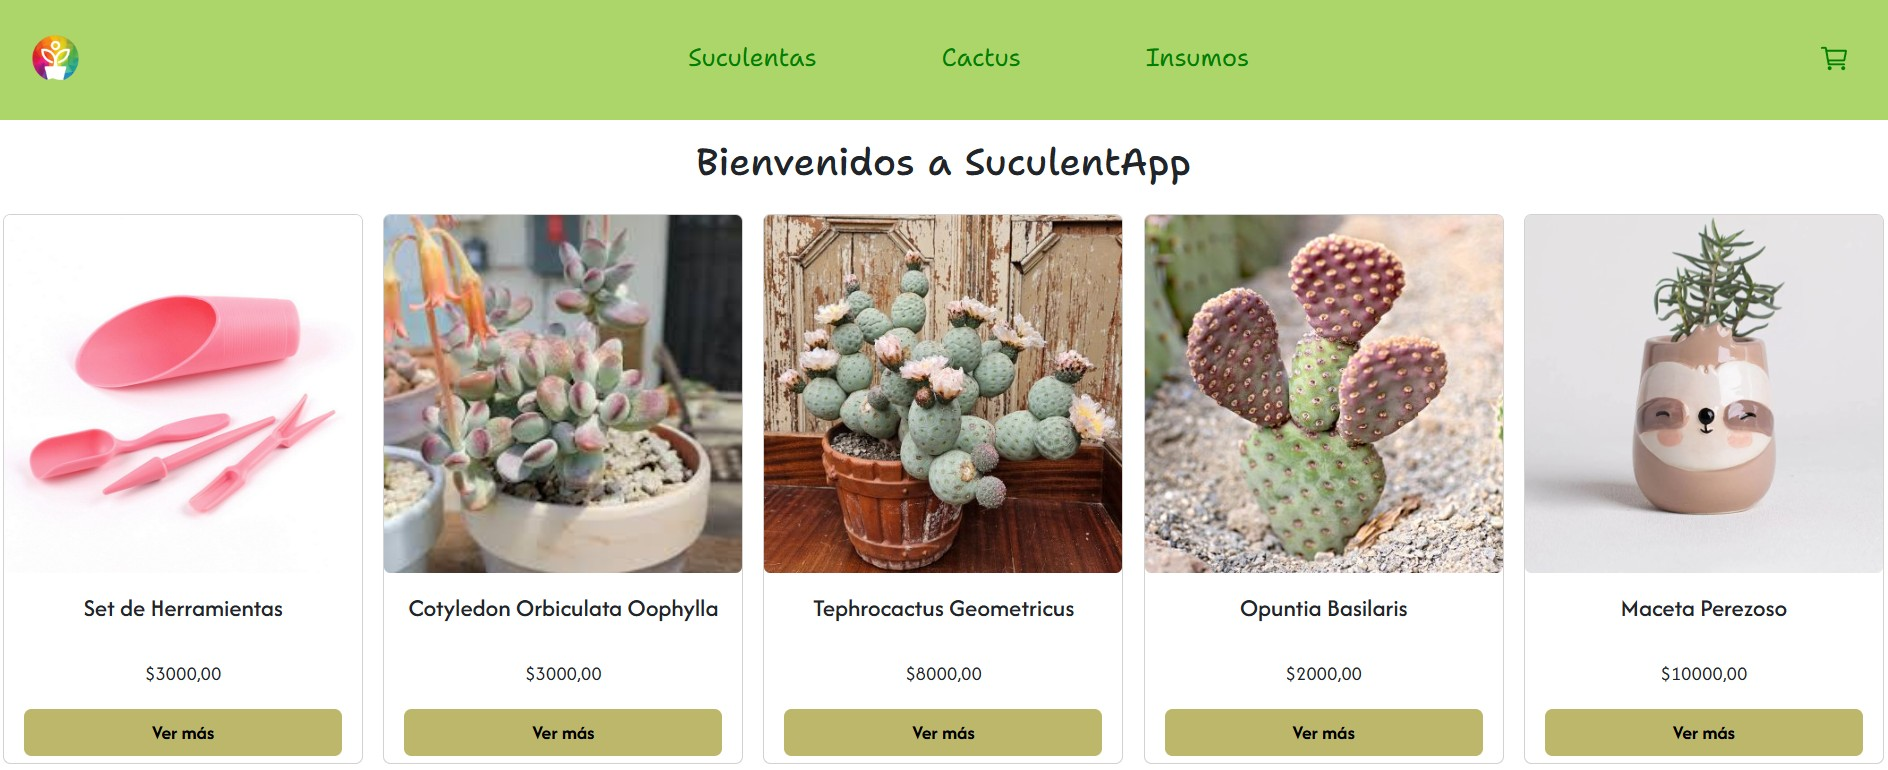
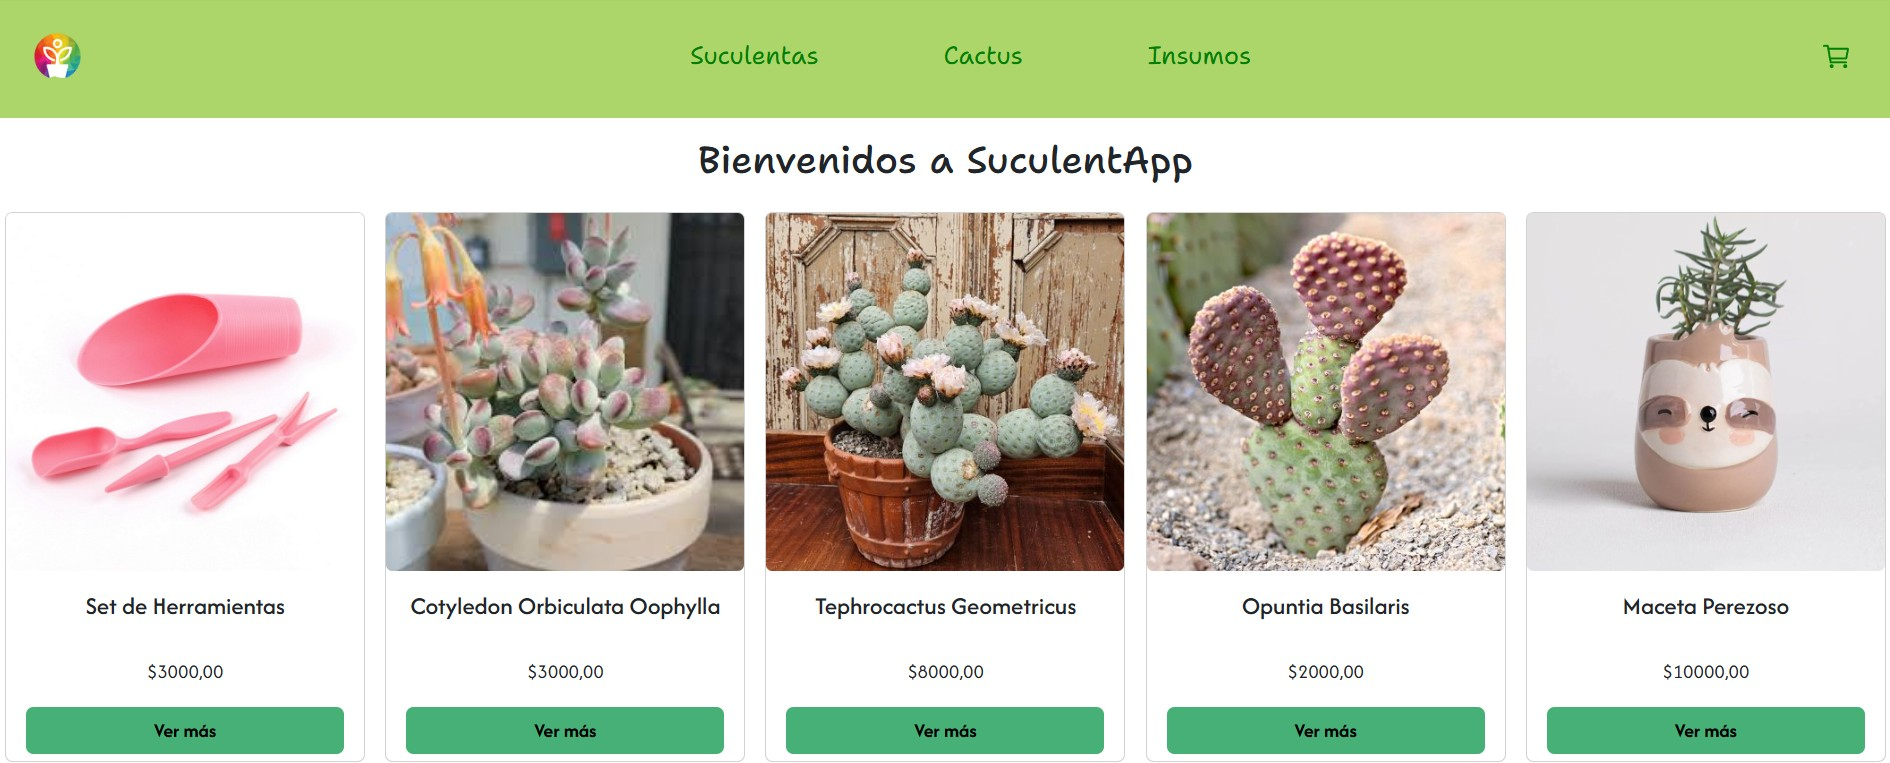
incorporacion de alerta al intentar vaciar el carrito y modificacion de la paleta de colores

diff --git a/src/components/CartView.jsx b/src/components/CartView.jsx
@@ -2,10 +2,44 @@ import '../styles/CartView.css'
 import React, { useContext } from 'react'
 import { CartContext } from '../context/CartContext'
 import { Link } from 'react-router-dom'
-import CartItem from './CartItem';
+import CartItem from './CartItem'
+import Swal from 'sweetalert2'
 
 const CartView = () => {
     const {cart, removeItem, clear, cartTotal}= useContext(CartContext)
+    const clearCart= () => {
+      const swalWithBootstrapButtons = Swal.mixin({
+        customClass: {
+          confirmButton: "btn btn-success",
+          cancelButton: "btn btn-danger"
+        },
+        buttonsStyling: false
+      });
+      swalWithBootstrapButtons.fire({
+        title: "¿Estas seguro?",
+        showCancelButton: true,
+        confirmButtonText: "Si",
+        cancelButtonText: "No",
+        reverseButtons: true,
+        backdrop: `
+                  rgba(251, 185, 32, 0.5)
+                    left top
+                    no-repeat
+                  `,
+        customClass: {
+          title: 'title',
+          confirmButton: 'confirm-btn',
+          cancelButton: 'confirm-btn'
+        }
+    }).then((result)=>{
+        if(result.isConfirmed){
+            clear()
+        }else if(result.isDenied){
+
+        }
+    })
+}
+
   return (
     <div>
         <h1 className='cart'>Tu Carrito</h1>
@@ -18,7 +52,7 @@ const CartView = () => {
         <div className='cart-total-container'>
             <span className='cart-total'>Total a pagar: ${cartTotal()}</span>
             <div className='cart-btn-container'>
-                <button className='btn cart-btn' onClick={clear}>Vaciar el carrito</button>
+                <button className='btn cart-btn' onClick={clearCart}>Vaciar el carrito</button>
                 <Link className='btn cart-btn' to='/checkout'>Finalizar compra</Link> 
             </div>
         </div>

diff --git a/src/styles/CheckOut.css b/src/styles/CheckOut.css
@@ -54,18 +54,19 @@
   .form-btn {
     width: 100%;
     font-family: "Afacad Flux", sans-serif;
-    background-color: #BDB76B;    
+    background-color: #46B076;    
     color: black;
+    font-weight: bold;
   }
 
   .form-btn:hover {
-    background-color: #b8b042;   
-    border: #b8b042 1px solid; 
+    background-color: #E4C520;   
+    border: #E4C520 1px solid; 
   }
 
   .form-btn:active {
-    background-color: #BDB76B !important;   
-    border: #BDB76B 1px solid !important; 
+    background-color: #46B076 !important;   
+    border: #46B076 1px solid !important; 
   }
   
   .compra-realizada {
@@ -79,17 +80,17 @@
 
   .compra-realizada .final-btn {
     font-family: "Afacad Flux", sans-serif;
-    background-color: #BDB76B;    
+    background-color: #46B076;    
     color: black;
     font-weight: bold;
   }
 
   .compra-realizada .final-btn:hover{
-    background-color: #b8b042;   
-    border: #b8b042 1px solid; 
+    background-color: #E4C520;   
+    border: #E4C520 1px solid; 
   }
 
   .compra-realizada .final-btn:active{
-    background-color: #BDB76B !important;   
-    border: #BDB76B 1px solid !important; 
+    background-color: #46B076 !important;   
+    border: #46B076 1px solid !important; 
   }

diff --git a/src/components/CheckOut.jsx b/src/components/CheckOut.jsx
@@ -33,7 +33,7 @@ const CheckOut = () => {
                   showConfirmButton: false,
                   timer: 1200,
                   width: 1000,
-                  color: "#fd8f0a",
+                  color: "#E4C520",
                   backdrop: `
                   rgba(251, 185, 32, 0.5)
                     left top
@@ -46,7 +46,7 @@ const CheckOut = () => {
                 showConfirmButton: false,
                 timer: 1200,
                 width: 1000,
-                color: "#fd8f0a",
+                color: "#E4C520",
                 backdrop: `
                   rgba(251, 185, 32, 0.5)
                   left top
@@ -106,7 +106,7 @@ const CheckOut = () => {
                 <Form.Group className="mb-3 input">
                     <Form.Control type="email" placeholder="Volvé a ingresar tu correo electrónico" name='second-email'onChange={(e)=>setValidateEmail(e.target.value)}/>
                 </Form.Group>
-                <Button className='form-btn' variant="secondary" type="submit">
+                <Button className='form-btn' variant="none" type="submit">
                     Enviar
                 </Button>
             </Form>

diff --git a/src/styles/ItemCount.css b/src/styles/ItemCount.css
@@ -19,33 +19,33 @@
 
 .count-btn{
     font-family: "Afacad Flux", sans-serif;
-    background-color: #BDB76B;    
+    background-color: #46B076;    
     width: 35px;
     font-weight: bold;
 }
 
 .count-btn:hover{
-    background-color: #b8b042;
-    border: #b8b042 1px solid; 
+    background-color: #E4C520;
+    border: #E4C520 1px solid; 
 }
 
 .count-btn:active {
-    background-color: #BDB76B !important;   
-    border: #BDB76B 1px solid !important; 
+    background-color: #46B076 !important;   
+    border: #46B076 1px solid !important; 
 }
 
 .count-btn-cart {
     font-family: "Afacad Flux", sans-serif;
-    background-color: #BDB76B;    
+    background-color: #46B076;    
     font-weight: bold;
 }
 
 .count-btn-cart:hover {
-    background-color: #b8b042;   
-    border: #b8b042 1px solid; 
+    background-color: #E4C520;   
+    border: #E4C520 1px solid; 
 }
 
 .count-btn-cart:active {
-    background-color: #BDB76B !important;   
-    border: #BDB76B 1px solid !important; 
+    background-color: #46B076 !important;   
+    border: #46B076 1px solid !important; 
 }

diff --git a/src/styles/CartView.css b/src/styles/CartView.css
@@ -39,20 +39,34 @@
     margin-top: 20px;
     width: 150px;
     font-family: "Afacad Flux", sans-serif;
-    background-color: #BDB76B;    
+    background-color: #46B076;    
     color: black;
     font-weight: bold;
 }
 
 .cart-btn:hover {
-    background-color: #b8b042;   
-    border: #b8b042 1px solid; 
+    background-color: #E4C520;   
+    border: #E4C520 1px solid; 
 }
 
 .cart-btn:active {
-    background-color: #BDB76B !important;   
-    border: #BDB76B 1px solid !important; 
+    background-color: #46B076 !important;   
+    border: #46B076 1px solid !important; 
 }
 
+.title {
+    color: black;
+    
+}
+
+.confirm-btn {
+    background-color: #E4C520;
+    border-radius: 5px;
+    width: 100px;
+    margin: auto 10px;
+    border: #E4C520 1px solid;
+    font-family: "Afacad Flux", sans-serif;
+    font-weight: bold;
+}
 
 

diff --git a/src/styles/ItemDetail.css b/src/styles/ItemDetail.css
@@ -16,7 +16,7 @@
     display: flex;
     flex-direction: column;
     align-items: center;
-    margin-top: 4.5rem;
+    margin-top: 3rem;
 }
 
 .detail p {
@@ -32,19 +32,19 @@
 
 .detail-btn-cart{
     font-family: "Afacad Flux", sans-serif;
-    background-color: #BDB76B;   
+    background-color: #46B076;   
     color: black;
     font-weight: bold;
 }
 
 .detail-btn-cart:hover {
-    background-color: #b8b042;   
-    border: #b8b042 1px solid; 
+    background-color: #E4C520;   
+    border: #E4C520 1px solid; 
 }
 
 .detail-btn-cart:active {
-    background-color: #BDB76B !important;   
-    border: #BDB76B 1px solid !important; 
+    background-color: #46B076 !important;   
+    border: #46B076 1px solid !important; 
 }
 
 .swal2-title{

diff --git a/src/styles/Item.css b/src/styles/Item.css
@@ -25,17 +25,17 @@
 
 .card .card-body .item-btn {
     font-family: "Afacad Flux", sans-serif;
-    background-color: #BDB76B;    
+    background-color: #46B076;    
     color: black;
     font-weight: bold;
 }
 
 .card .card-body .item-btn:hover {
-    background-color: #b8b042;   
-    border: #b8b042 1px solid; 
+    background-color: #E4C520;   
+    border: #E4C520 1px solid; 
 }
 
 .card .card-body .item-btn:active {
-    background-color: #BDB76B !important;   
-    border: #BDB76B 1px solid !important; 
+    background-color: #46B076 !important;   
+    border: #46B076 1px solid !important; 
 }

diff --git a/src/styles/CartItem.css b/src/styles/CartItem.css
@@ -1,16 +1,16 @@
 .cart-detail-btn{
     font-family: "Afacad Flux", sans-serif;
-    background-color: #BDB76B;    
+    background-color: #46B076;    
     color: black;
     font-weight: bold;
 }
 
 .cart-detail-btn:hover {
-    background-color: #b8b042;   
-    border: #b8b042 1px solid; 
+    background-color: #E4C520;   
+    border: #E4C520 1px solid; 
 }
 
 .cart-detail-btn:active {
-    background-color: #BDB76B !important;   
-    border: #BDB76B 1px solid !important; 
+    background-color: #46B076 !important;   
+    border: #46B076 1px solid !important; 
 }

diff --git a/src/styles/EmptyCart.css b/src/styles/EmptyCart.css
@@ -20,17 +20,17 @@ h3{
 
 .empty-btn{
     font-family: "Afacad Flux", sans-serif;
-    background-color: #BDB76B;    
+    background-color: #46B076;    
     color: black;
     font-weight: bold;
 }
 
 .empty-btn:hover{
-    background-color: #b8b042;   
-    border: #b8b042 1px solid; 
+    background-color: #E4C520;   
+    border: #E4C520 1px solid; 
 }
 
 .empty-btn:active{
-    background-color: #BDB76B !important;   
-    border: #BDB76B 1px solid !important; 
+    background-color: #46B076 !important;   
+    border: #46B076 1px solid !important; 
 }

diff --git a/src/components/ItemDetail.jsx b/src/components/ItemDetail.jsx
@@ -20,7 +20,7 @@ const ItemDetail = ({productDetail}) => {
       width: 1000,
       color: "#008000",
       backdrop: `
-       rgba(148, 184, 89, 0.5)
+      rgba(148, 184, 89, 0.5)
         left top
         no-repeat
       `

diff --git a/src/components/LoaderComponent.jsx b/src/components/LoaderComponent.jsx
@@ -5,7 +5,7 @@ import {PulseLoader} from 'react-spinners'
 const LoaderComponent = () => {
   return (
     <div className='loader'>
-        <PulseLoader color='green'/>
+        <PulseLoader color='#BD1E7A'/>
     </div>
   )
 }
